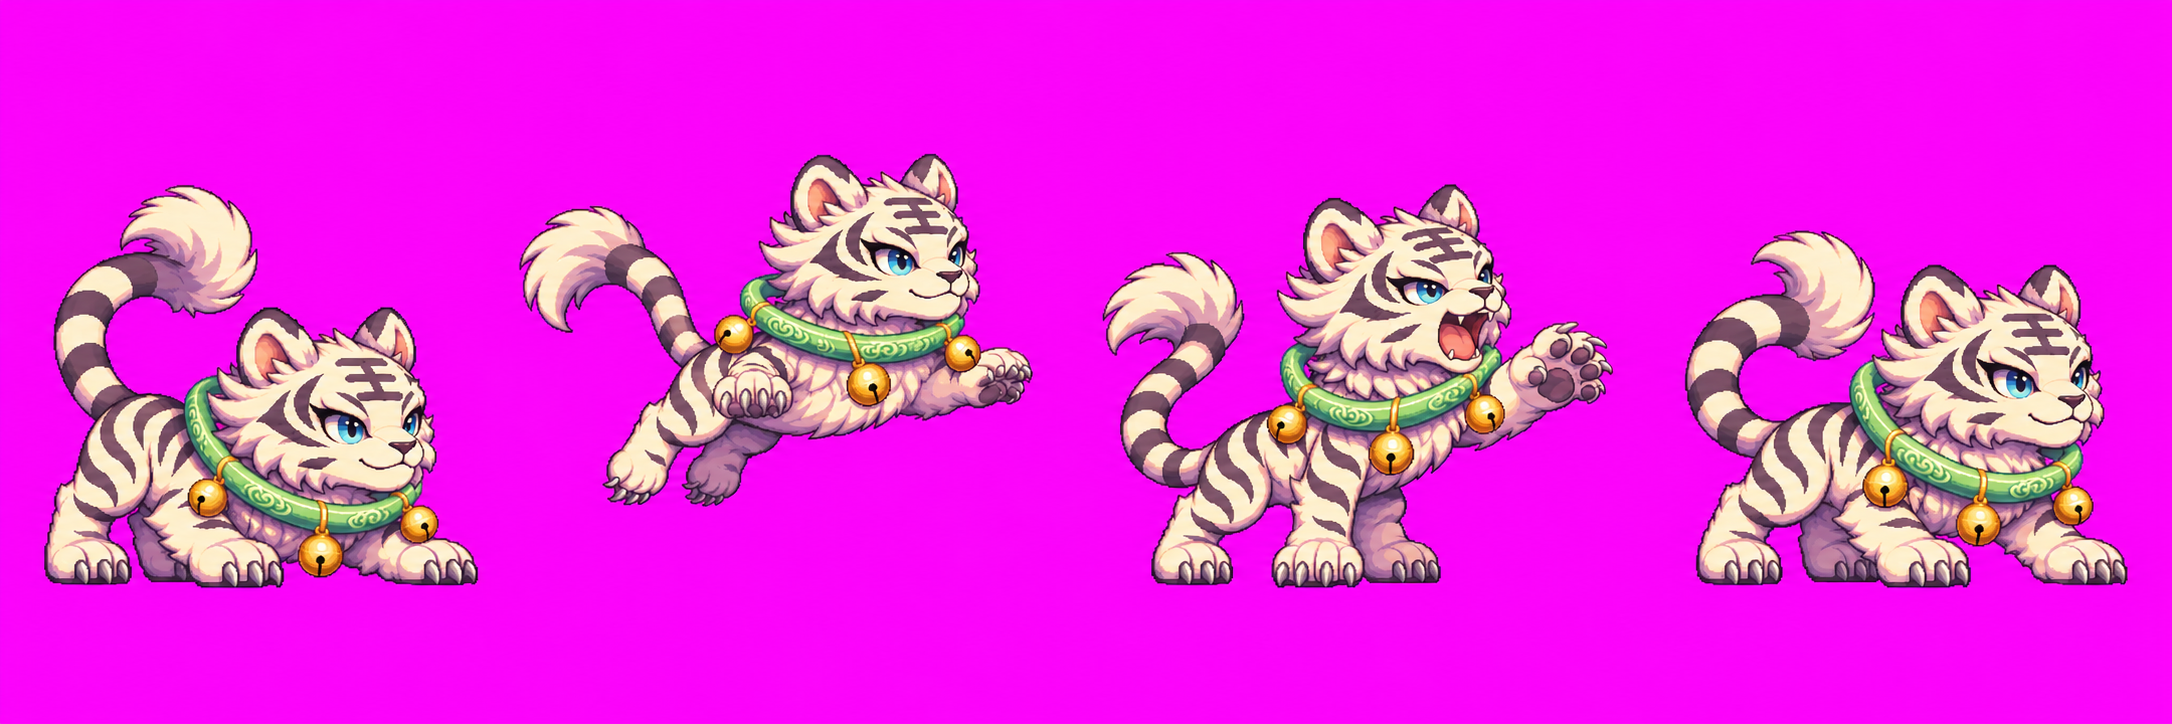
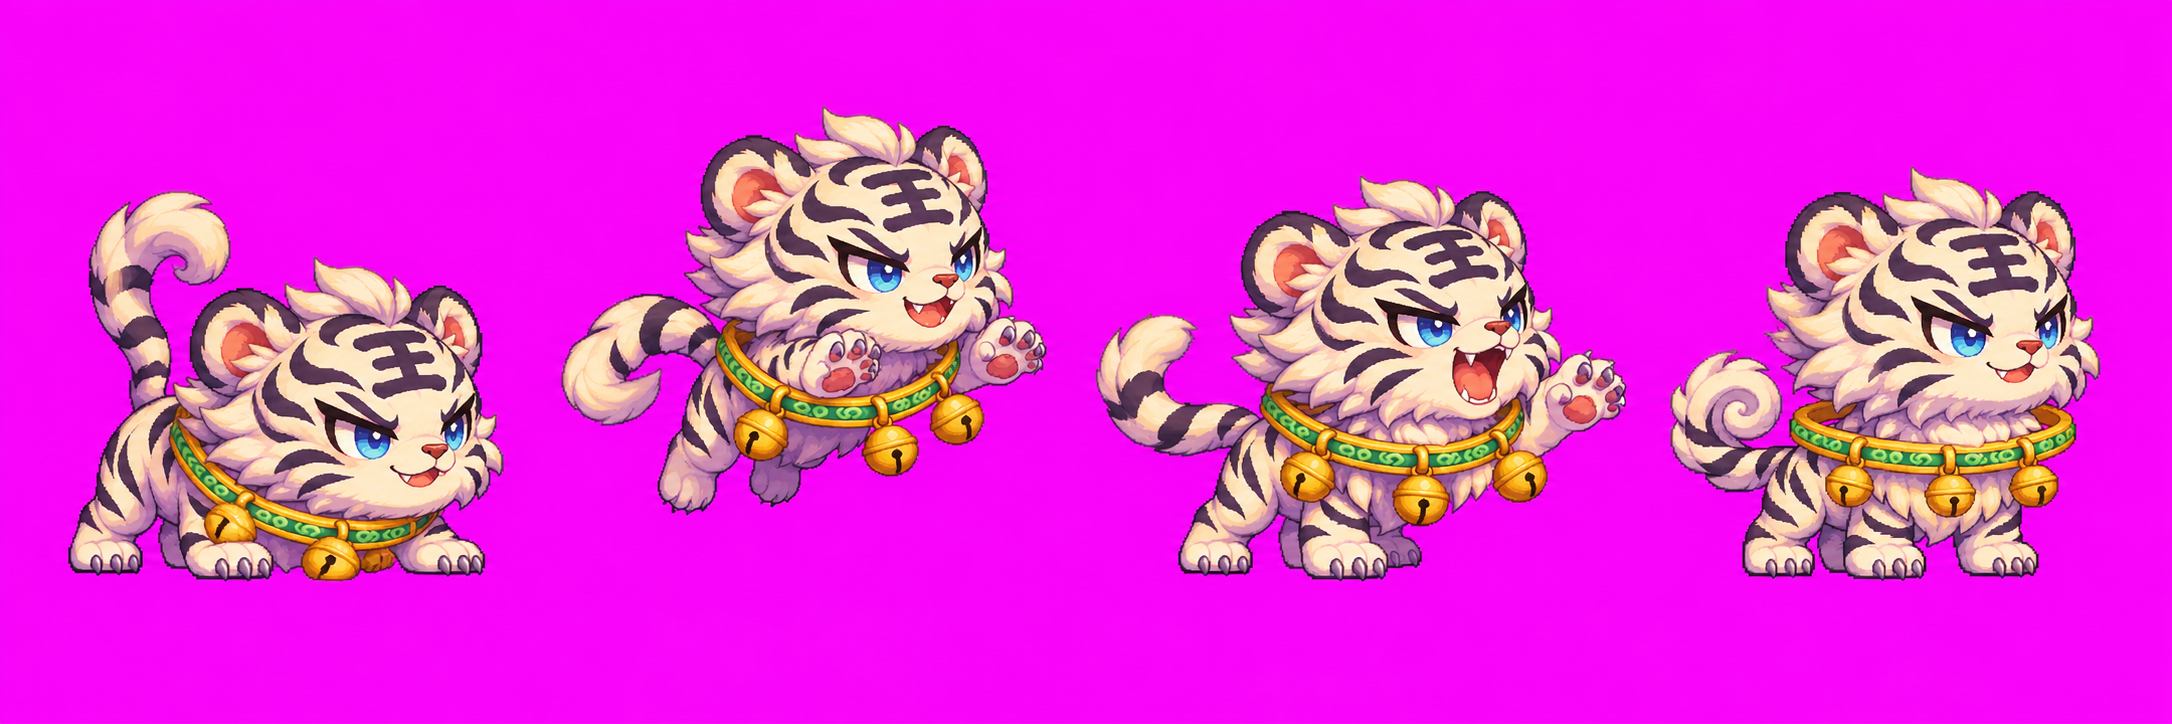
art(batch2): redesign baihu__attack.png for guardian v2

diff --git a/idle-td-art/batch2/README.md b/idle-td-art/batch2/README.md
@@ -1,6 +1,6 @@
 # 放置塔防第二批點陣圖：工單 B1　神獸 4 隻
 
-狀態：進行中：ChatGPT 神獸 v2 攻擊；四張站立已於來源 09:50 全數明確通過
+狀態：進行中：ChatGPT 神獸 v2 攻擊（已交 1/4）；四張站立已明確通過
 （狀態只會是：待接手／進行中：<誰> <時間>／待驗收／完成通知）
 
 這是新遊戲「放置塔防」**第二批美術（神獸、塔、陣法）**的交接處，負責驗收的是 Claude 討論串「繪製塔防塔、陣法與神獸」。
@@ -109,9 +109,9 @@ GPT 畫歪時可以回它：
 
 ## v2 交付紀錄
 
-- 依新版設計全部重新生成，只以標準圖作畫風與比例參考，不沿用舊神獸圖。青龍、朱雀各為兩格待機。
+- 依新版設計全部重新生成；攻擊以本次已通過的 v2 站立與標準圖為參考，不沿用 v1 圖。青龍、朱雀各為兩格待機。
 - 使用本第二批獨立 ChatGPT 工作對話的 ImageGen；提交生成原始 PNG，未裁切、縮放、換背景或用程式畫圖；原圖均保留。
-- 目前僅以下站立圖屬 v2。既有 `*__attack.png` 是已作廢的 v1，不屬本次交付、不可使用；四張 v2 站立已明確通過，接續重畫四張攻擊。
+- 來源 09:38 已通過白虎、青龍、朱雀 v2 站立，09:50 明確通過玄武 v2 站立；已滿足四張站立通過後才畫攻擊的驗收關卡。以下表列圖片屬 v2，尚未列入表中的舊攻擊圖仍為作廢 v1，不可使用。
 
 | 檔案 | 實際畫布 | 格數 | 說明 |
 |---|---|---|---|
@@ -119,6 +119,7 @@ GPT 畫歪時可以回它：
 | `images/qinglong__stand.png` | 1774×887 | 2 | v2 大頭金角青龍，神氣金眼、短胖 S 形青鱗身體、藍白鬃與小白珠；兩格上下懸浮。 |
 | `images/zhuque__stand.png` | 1774×887 | 2 | v2 大圓頭朱雀、驕傲金眼與高金冠、短圓身、金邊大翼；兩格上振／下振翅膀。 |
 | `images/xuanwu__stand.png` | 1254×1254 | 1 | v2 玄武巨頭與小龜殼、濃白眉小白鬚、金紋黑青殼；盤殼蛇有獨立大頭與吐舌笑。 |
+| `images/baihu__attack.png` | 2172×724 | 4 | v2 攻擊：蓄勢、躍起、右揮爪、回站立；保留大頭與短身、玉環三鈴，尾巴和鈴鐺各格擺動。 |
 
 原圖 SHA-256：
 
@@ -126,6 +127,7 @@ GPT 畫歪時可以回它：
[4 lines of base64/hex data omitted]
 
 ## 意見與待辦
 
